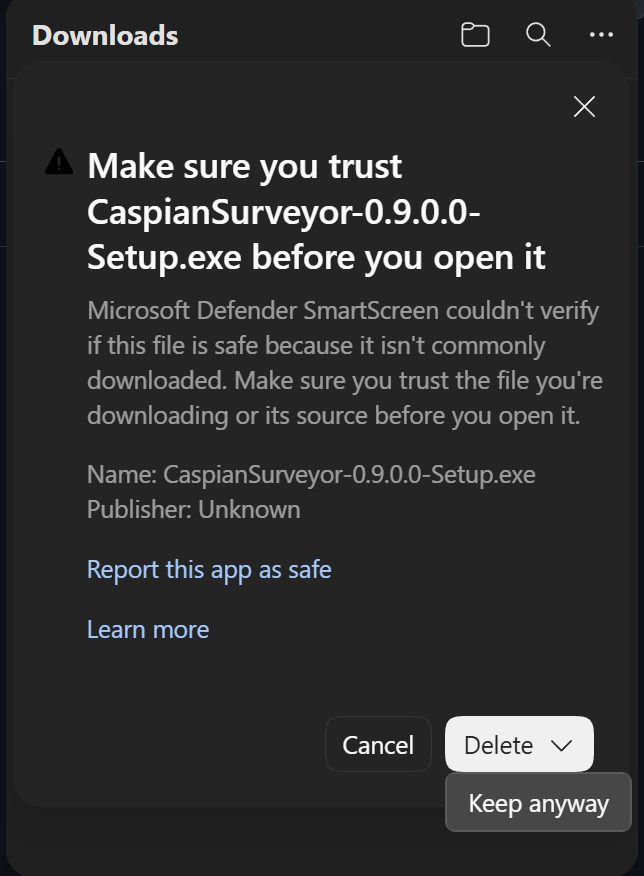
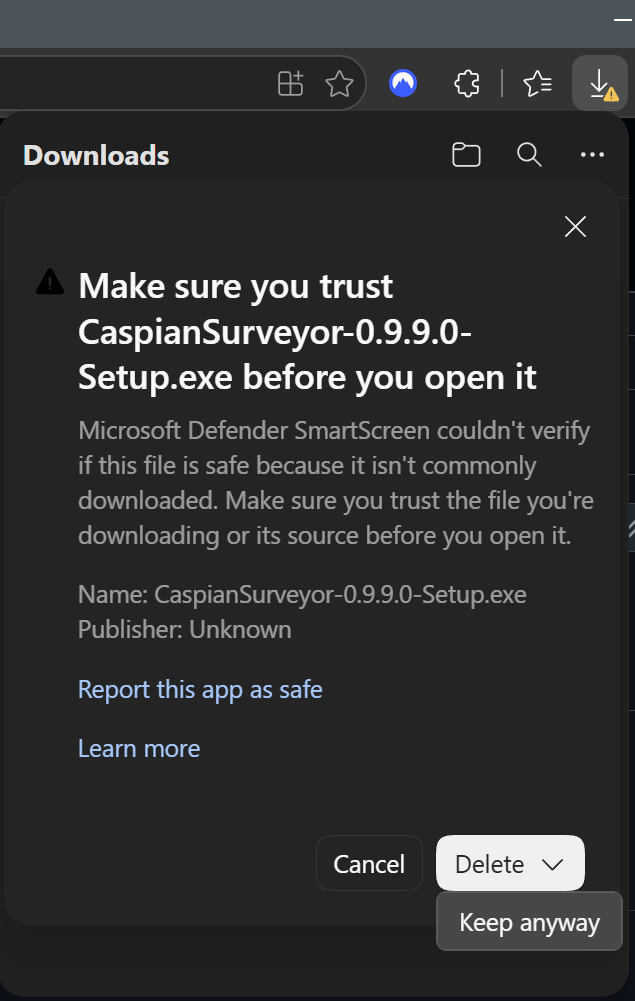
docs: establish documentation structure and     initial guides

diff --git a/docs/getting-started/installation.md b/docs/getting-started/installation.md
@@ -1,0 +1,54 @@
+# Installation of Caspian Surveyor
+
+## Running the Installer
+
+1. Download `CaspianSurveyor-0.9.9.0-Setup.exe` from the GitHub Releases page.
+
+2. Because the installer is currently unsigned, Microsoft Edge or another browser may warn that the file is not commonly downloaded. Keep the file **only if you downloaded it from the official Caspian Surveyor GitHub release page**.
+
+   In Microsoft Edge:
+   - Open the download menu and choose **Keep**.
+   - When prompted to confirm, choose **Keep anyway**.
+
+<img src="../images/download-keep.png" alt="Choose Keep from the Microsoft Edge download menu." width="475"> <img src="../images/download-dropdown-keep.png" alt="Choose Keep anyway when prompted to confirm the download." width="300">
+
+3. Run the installer. Administrator privileges are not required.
+
+4. Windows may display an **Unknown Publisher** or **Microsoft Defender SmartScreen** warning when the installer is launched.
+
+   If Windows displays **Windows protected your PC**, select **More info** → **Run anyway** if you trust the file source.
+
+
+## Portable (.zip) Installation
+
+1. Download `CaspianSurveyor-0.9.9.0-Windows.zip` from the GitHub Releases page.
+2. Unzip the contents to your preferred directory.
+
+***Note:*** Caspian Surveyor will still keep the default location for the application data directory (%LOCALAPPDATA%/CaspianSurveyor) regardless of where the files are unzipped.
+
+## Upgrading a Portable (.zip) Installation
+### General Upgrade Instructions - Database Recreation *not* Required
+
+1. Download the `CaspianSurveyor-#.#.#.#-Windows.zip` file
+2. Unzip the contents to the desired directory
+
+If the SQLite database schema is updated, the database will need to be recreated to ensure Caspian Surveyor functions properly.
+
+With the ongoing development of Caspian Surveyor, there may be a need to recreate the SQLite database. The installer handles this, but the process for a portable installation requires specific steps.
+
+***Please note that if the database needs to be recreated, the release notes will state so.***
+***These steps are generalized. A release may require specific steps to be performed. Please refer to the release notes section and ensure to follow the correct upgrade procedure.***
+
+### General Upgrade Instructions - Database Recreation Required
+
+***IMPORTANT***: Replace `<UPGRADE_VERSION>` with the version requiring the database recreation, without the angle brackets. For version 0.9.9.0, use 0990.
+
+1. Navigate to `%LOCALAPPDATA%\CaspianSurveyor\data`
+2. Locate `historical_event_ingestion.ini`
+3. Right-click -> Open with your preferred text editor
+4. Update `historical_event_ingestion = False` -> `historical_event_ingestion = True` then save your changes
+5. Back in `%LOCALAPPDATA%\CaspianSurveyor\data`, locate `exploration_history.jsonl`
+6. Right-click -> Rename to `exploration_history_PRE-<UPGRADE_VERSION>.jsonl`
+7. Back in `%LOCALAPPDATA%\CaspianSurveyor\data`, navigate to the `db` directory
+8. Right-click `caspian_surveyor.db` -> Rename to `caspian_surveyor_PRE-<UPGRADE_VERSION>.bak`
+9. Launch Caspian Surveyor

diff --git a/docs/index.md b/docs/index.md
@@ -1,0 +1,42 @@
+# Caspian Surveyor - An Elite Dangerous Exploration Companion
+
+## What is Caspian Surveyor?
+Caspian Surveyor is an exploration companion for Elite Dangerous built to turn raw journal data into a persistent, readable record of your journey. It monitors the Elite Dangerous journal in real time, maintains exploration history across sessions, and presents current system data through an in-game HUD-style overlay.
+
+The project aims to improve the exploration experience for the Elite Dangerous community by providing quality-of-life tools and contributing to a more satisfying exploration gameplay loop.
+
+## Current Version and Alpha Status
+
+- Current Version: 0.9.9.0
+- Alpha Status: Caspian Surveyor development is active and ongoing, receiving regular updates for features and bug fixes.
+
+## What Caspian Surveyor Currently Does
+
+- Live Elite Dangerous journal monitoring
+- Current-system and body survey reconstruction
+- Historical Odyssey journal ingestion and archive reconstruction
+- Persistent exploration history
+- SQLite-backed archive for systems, bodies, signals, and exobiology scans
+- HUD-style exploration overlay
+- Exobiology, biosignal, and planetary survey tracking
+- Orbital and physical body data display
+- Customizable HUD colors and theming
+- REBOUND simulations for archived systems
+    - Option to save the simulation and configure the number of simulation snapshots
+
+## Reporting Bugs
+
+Bug reports can be submitted through GitHub Issues.
+
+When reporting a bug, please include:
+
+- Caspian Surveyor version
+- A description of what happened
+- Steps to reproduce the issue, if known
+- The relevant Caspian Surveyor log file
+
+Logs are stored under:
+
+```text
+%LOCALAPPDATA%\CaspianSurveyor\logs\
+```

diff --git a/docs/getting-started/configuration.md b/docs/getting-started/configuration.md
@@ -1,0 +1,1 @@
+# Caspian Surveyor - Configuration
